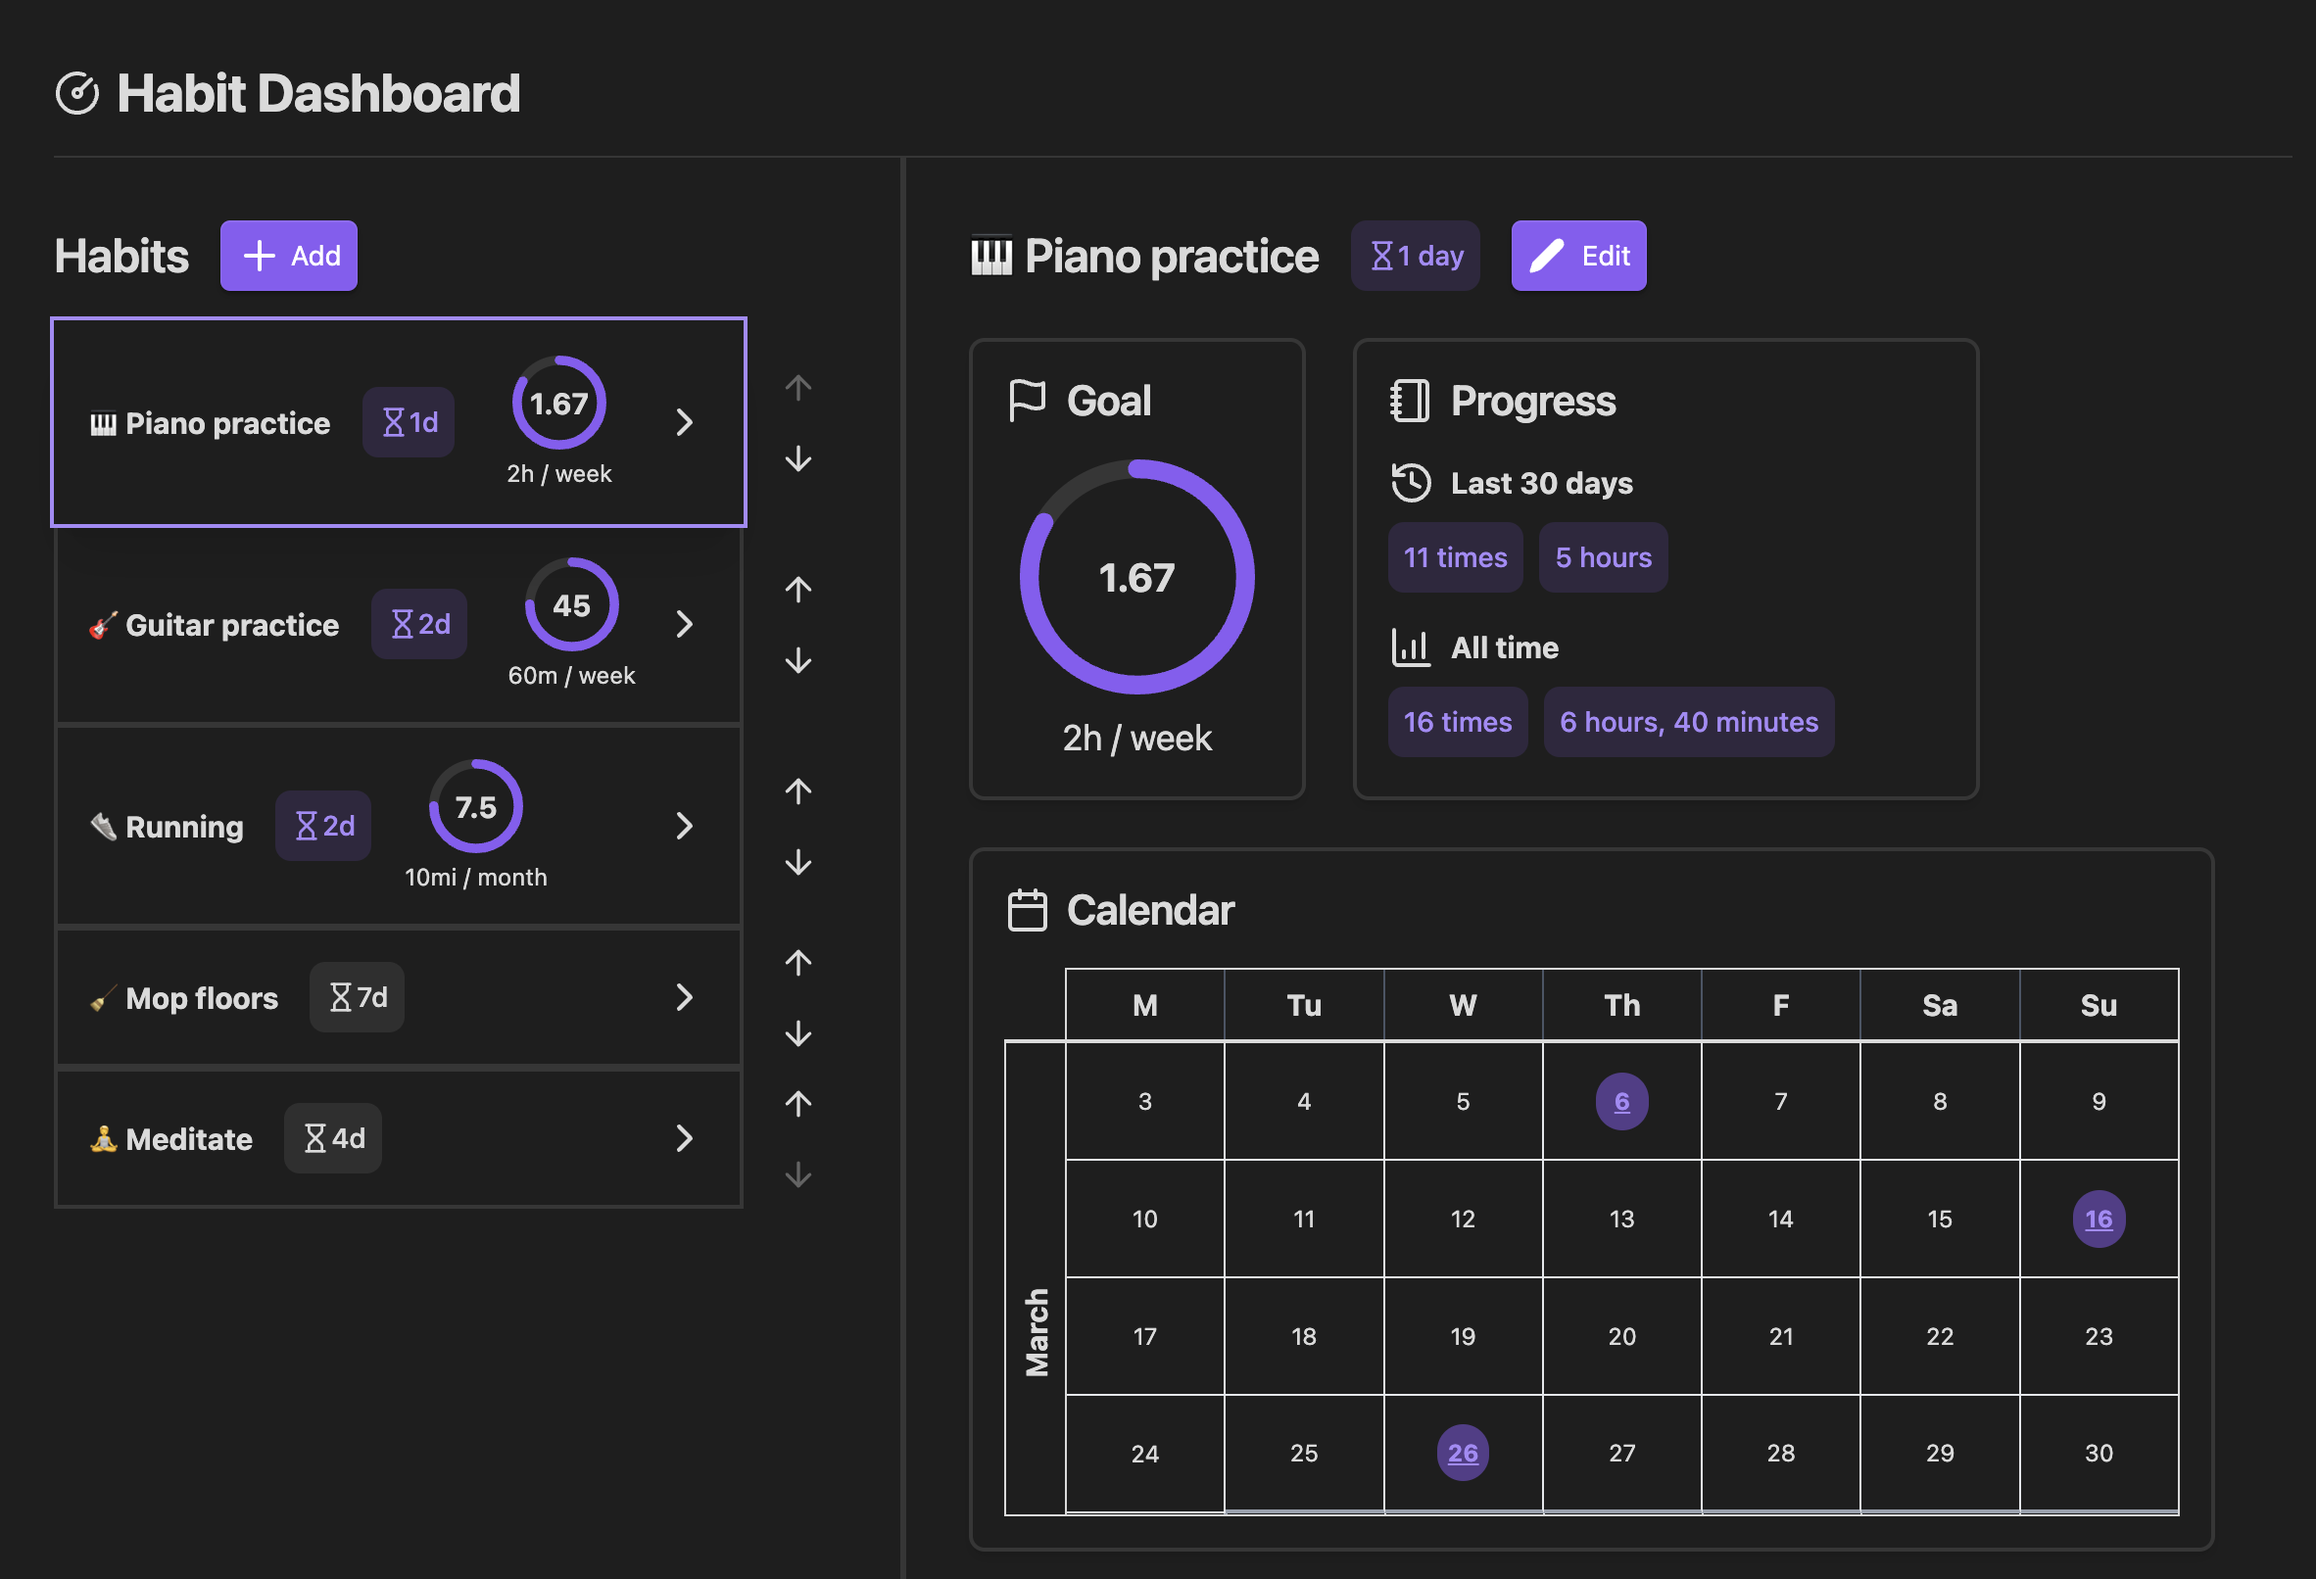
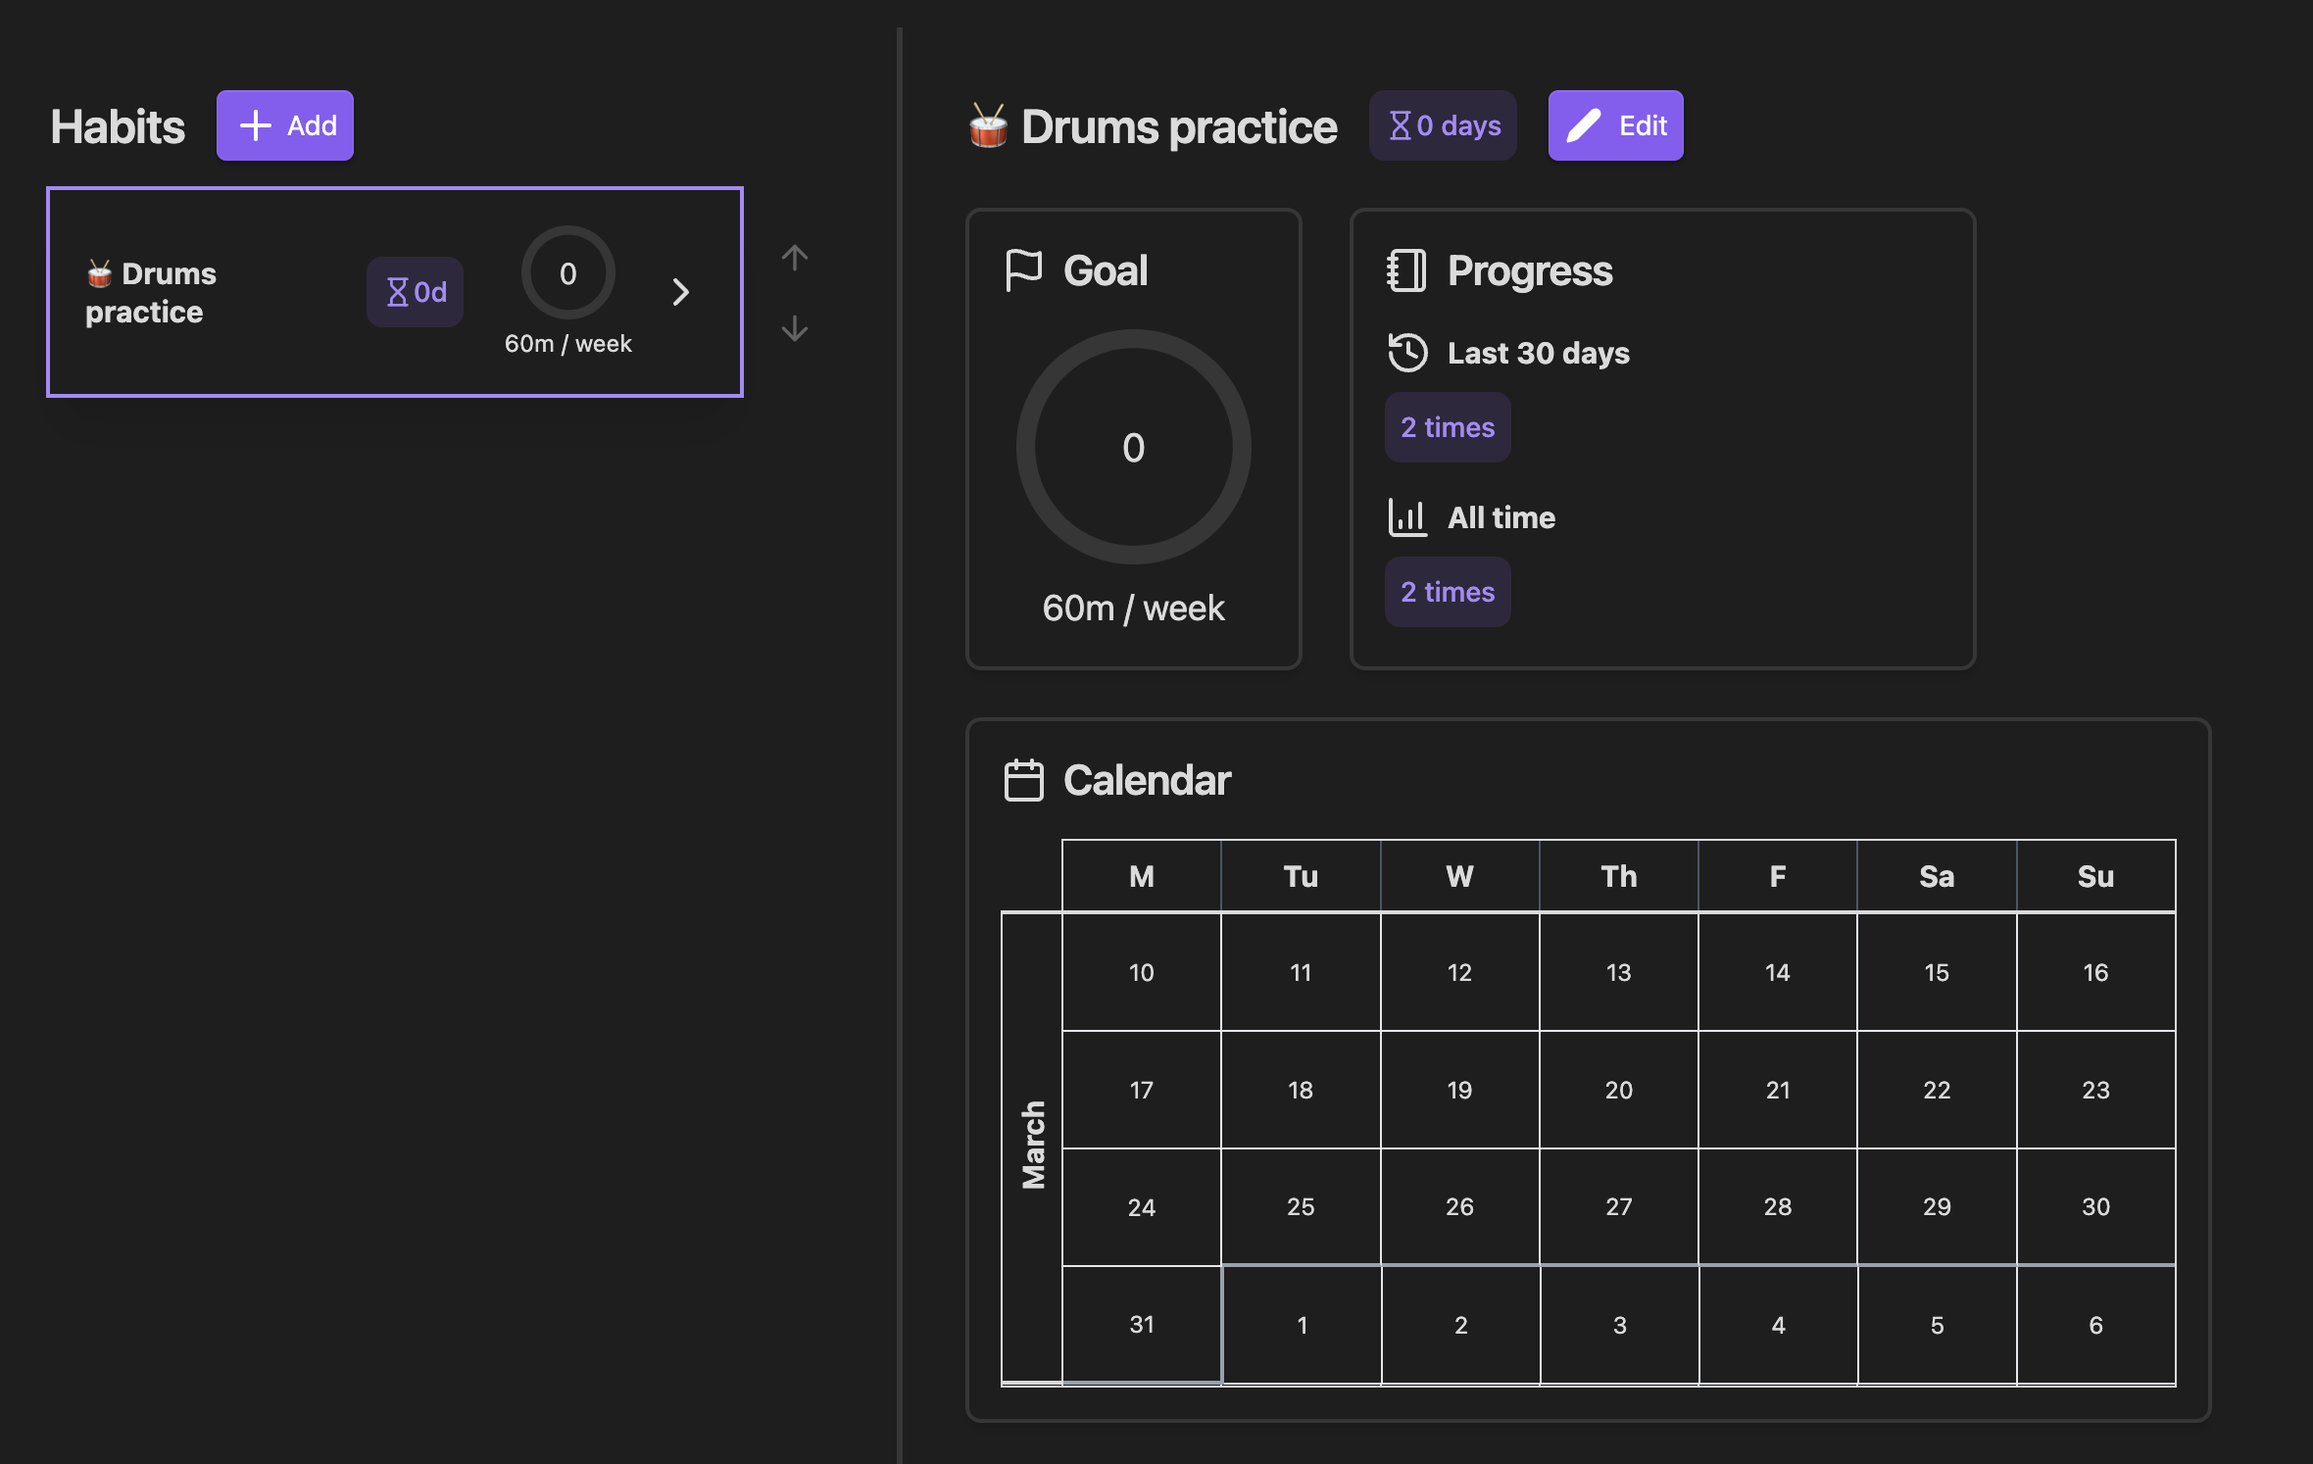
remove top-level header and update screenshots (suggested by https://docs.obsidian.md/Plugins/Releasing/Plugin+guidelines)

diff --git a/src/ObsidianHabitDashboard.svelte b/src/ObsidianHabitDashboard.svelte
@@ -82,12 +82,6 @@
 </script>
 
 <div class="flex flex-col h-full">
-  <h1
-    class="flex flex-row items-center font-bold ml-4 mb-0! pb-4 border-b border-(--background-modifier-border) space-x-2"
-  >
-    <CircleGauge />
-    <span>Habit Dashboard</span>
-  </h1>
   {#if !IS_DEV}
     <HabitOverview
       {habits}
